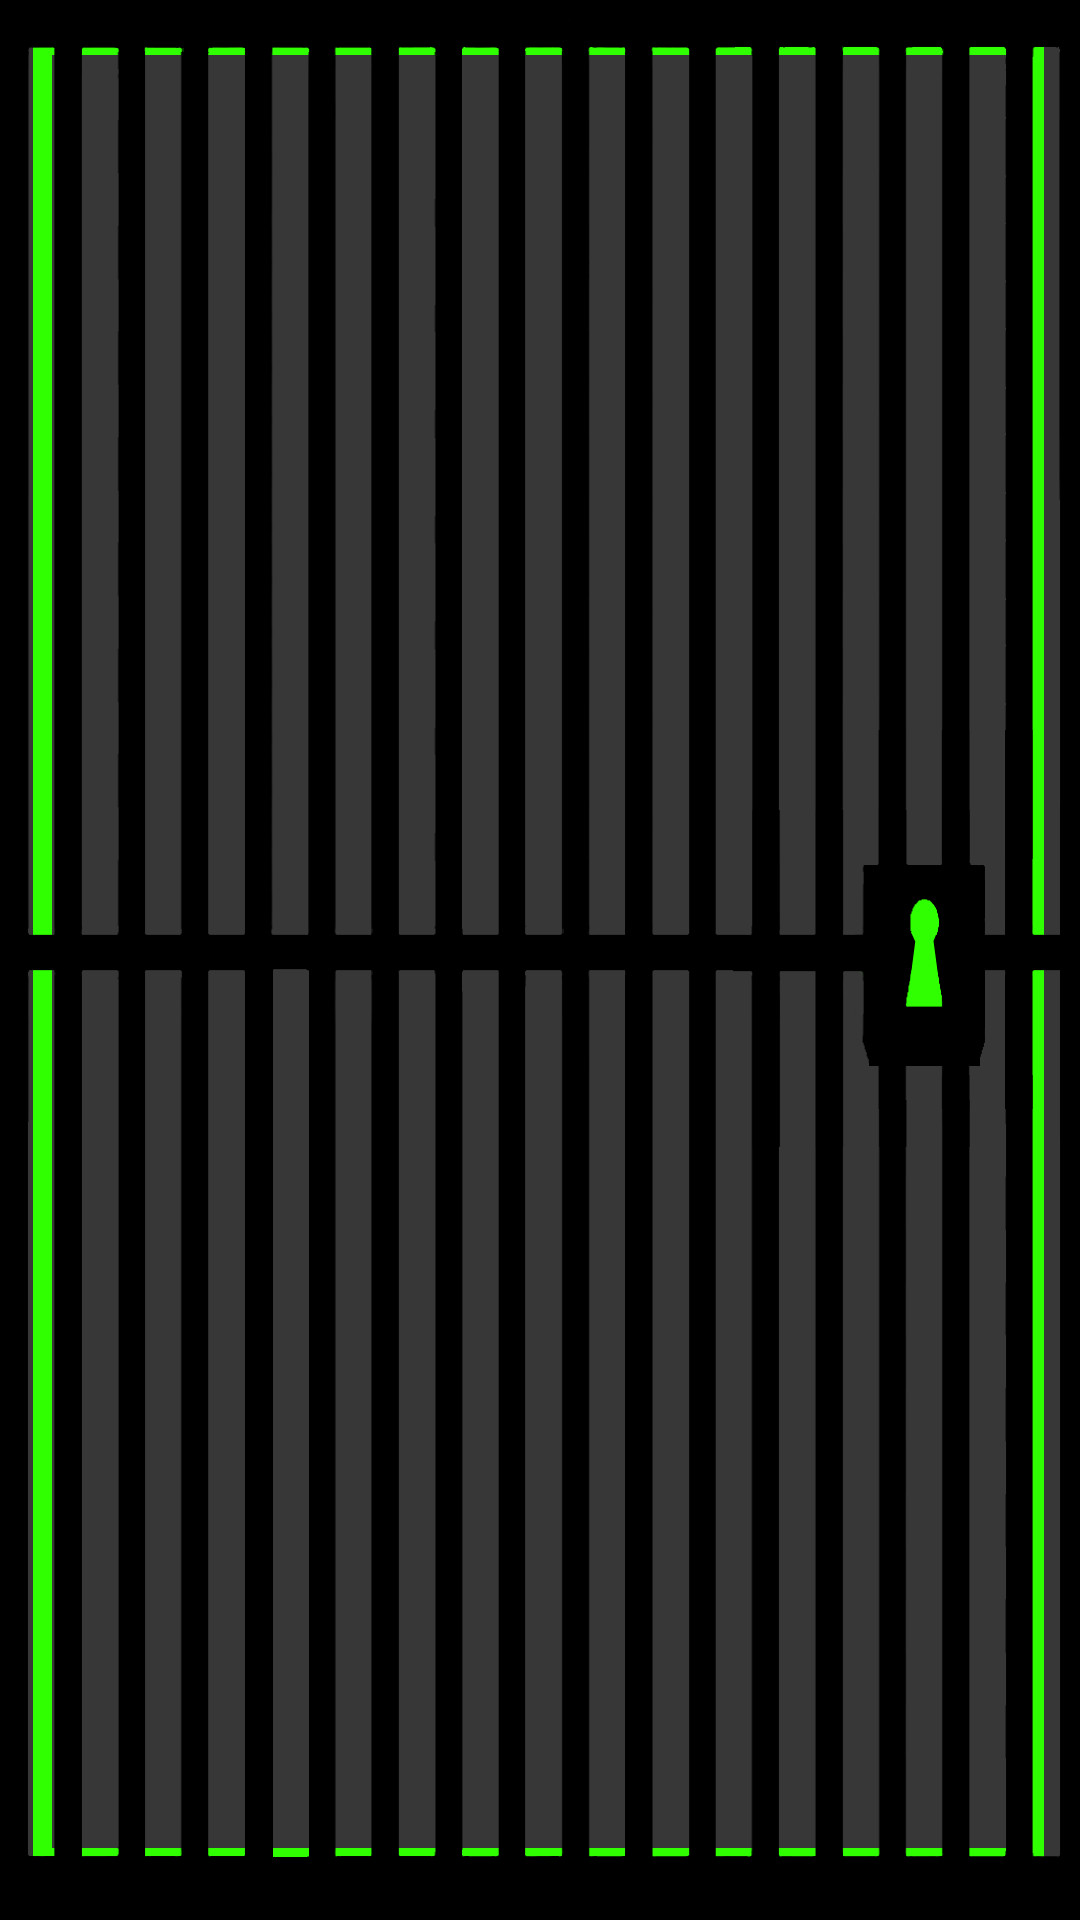
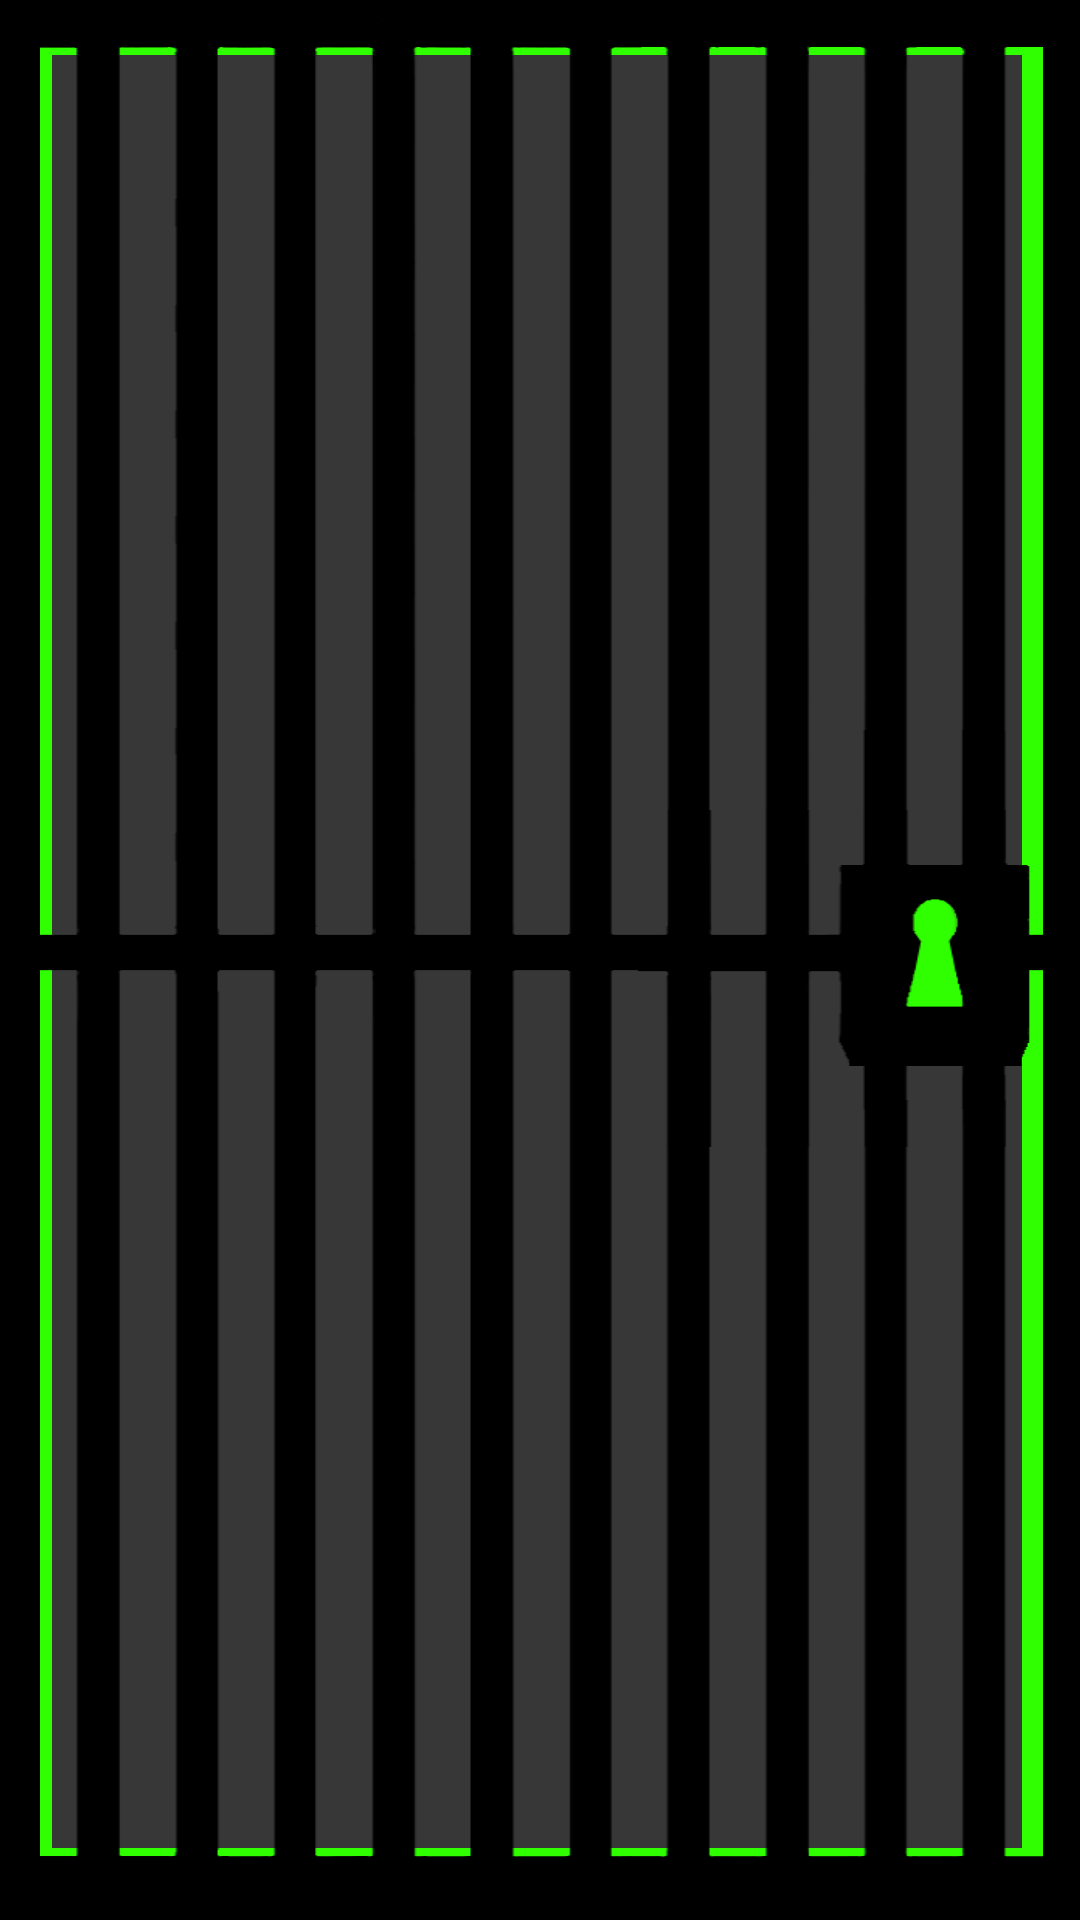
Generated barred doors; unlock on button click

diff --git a/assets/javascript/main.js b/assets/javascript/main.js
@@ -3,7 +3,7 @@ const doorImg2 = document.getElementById("door2");
 const doorImg3 = document.getElementById("door3");
 const doorImg4 = document.getElementById("door4");
 const doorImg5 = document.getElementById("door5");
-const barredDoorPath = "https://i.imgur.com/LIa4bkY.png";
+const barredDoorPath = "https://i.imgur.com/uWynumy.png";
 const closedDoorPath = "https://i.imgur.com/niZAX8c.png";
 const dudDoorPath = "https://i.imgur.com/ADa7c0z.png";
 const qDoorPath = "https://i.imgur.com/mJGVU5p.png";
@@ -124,7 +124,7 @@ const door5Click = () => {
 // --------------
 
 const startRound = () => {
-  playButton.innerHTML = "";
+  playButton.innerHTML = "Start Game";
   statusMessage.innerHTML = "Choose A Door";
   streakMessage.innerHTML = "Winning Streak: ";
   streakCount.innerHTML = countNumber;
@@ -132,11 +132,11 @@ const startRound = () => {
   statusMessage.style.color = "rgb(102, 255, 47)";
   document.getElementById("tv-2-background").style.backgroundColor = "rgb(0, 6, 2)";
   //reset gameplay values:
-  doorImg1.src = closedDoorPath;
-  doorImg2.src = closedDoorPath;
-  doorImg3.src = closedDoorPath;
-  doorImg4.src = closedDoorPath;
-  doorImg5.src = closedDoorPath;
+  doorImg1.src = barredDoorPath;
+  doorImg2.src = barredDoorPath;
+  doorImg3.src = barredDoorPath;
+  doorImg4.src = barredDoorPath;
+  doorImg5.src = barredDoorPath;
   numOfClosedDoors = 5;
   activeRound = true;
   doorRandomizer();
@@ -168,7 +168,13 @@ doorImg3.onclick = door3Click;
 doorImg4.onclick = door4Click;
 doorImg5.onclick = door5Click;
 playButton.onclick = () => {
+  doorImg1.src = closedDoorPath;
+  doorImg2.src = closedDoorPath;
+  doorImg3.src = closedDoorPath;
+  doorImg4.src = closedDoorPath;
+  doorImg5.src = closedDoorPath;
   if (!activeRound) {
+    console.log(`button clicked`);
     streakCount.innerHTML = countNumber;
     startRound();
   }
